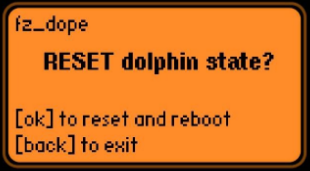
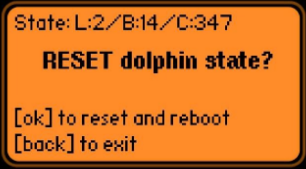
display current status

Changed region(s): [[0.0, 0.0, 1.0, 1.0], [0.3824, 0.2959, 0.9118, 0.4438], [0.1176, 0.2959, 0.3824, 0.4142]]

diff --git a/fz_dope.c b/fz_dope.c
@@ -1,14 +1,22 @@
 #include <furi.h>
+#include <dolphin/dolphin.h>
 #include <gui/gui.h>
 #include <power/power_service/power.h>
 #include <storage/storage.h>
 
 static void fz_dope_draw_callback(Canvas * canvas, void *ctx) {
     UNUSED(ctx);
+    char stats_str[30];
+
+    Dolphin* dolphin = furi_record_open(RECORD_DOLPHIN);
+    DolphinStats stats = dolphin_stats(dolphin);
+    furi_record_close(RECORD_DOLPHIN);
+
+    snprintf(stats_str, sizeof(stats_str),"State: L:%hu/B:%lu/C:%lu", stats.level, stats.butthurt, stats.icounter);
 
     canvas_clear(canvas);
     canvas_set_font(canvas, FontSecondary);
-    canvas_draw_str(canvas, 0, 7, "fz_dope");
+    canvas_draw_str(canvas, 0, 7, stats_str);
     canvas_set_font(canvas, FontPrimary);
     canvas_draw_str(canvas, 13, 25, "RESET dolphin state?");
     canvas_set_font(canvas, FontSecondary);
@@ -48,6 +56,7 @@ int32_t fz_dope(void *p) {
 	if (event.key == InputKeyOk) {
 	    Storage *storage = furi_record_open(RECORD_STORAGE);
 	    storage_simply_remove(storage, INT_PATH(".dolphin.state"));
+	    furi_record_close(RECORD_STORAGE);
 	    power_reboot(PowerBootModeNormal);
 	}
     }

diff --git a/README.md b/README.md
@@ -5,3 +5,9 @@ Simple Flipper Zero app for resetting [dolphin](https://docs.flipperzero.one/bas
 App name is a reference to the substances, making [Jones](https://williamgibson.fandom.com/wiki/Jones) happy again.
 
 ![Screenshot](img/screenshot.png)
+
+Current state is displayed on a first line in a form of "State: L:level/B:butthurt/C:icounter", see [here](https://github.com/flipperdevices/flipperzero-firmware/blob/dev/applications/services/dolphin/dolphin.h).
+
+### Rationale
+
+Some reddit user on /r/flipperzero: "I'm going to have to cancel my order, I don't think I can deal with something with eyes that sad."
